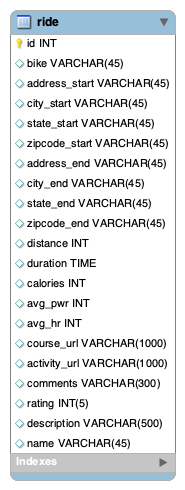
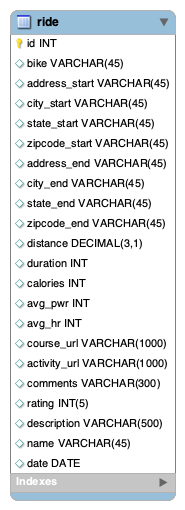
Initial JPA EM tests and initial Get functional in Postman

Changed region(s): [[0.0541, 0.0, 0.9459, 0.9796], [0.8649, 0.9184, 0.9189, 0.9796]]

diff --git a/RideTrackerJPA/src/main/java/com/skilldistillery/ridetracker/entities/Ride.java b/RideTrackerJPA/src/main/java/com/skilldistillery/ridetracker/entities/Ride.java
@@ -7,6 +7,8 @@ import javax.persistence.Entity;
 import javax.persistence.GeneratedValue;
 import javax.persistence.GenerationType;
 import javax.persistence.Id;
+import javax.persistence.Temporal;
+import javax.persistence.TemporalType;
 
 @Entity
 public class Ride {
@@ -34,7 +36,7 @@ public class Ride {
 	@Column(name="zipcode_end")
 	private String zipcodeEnd;
 	private Double distance;
-	private Date duration;
+	private int duration;
 	private int calories;
 	@Column(name = "avg_pwr")
 	private int avgPwr;
@@ -46,15 +48,21 @@ public class Ride {
 	private String activityUrl;
 	private String comments;
 	private int rating;
+	@Temporal(TemporalType.DATE)
+	private Date date;
 	
-	
-	
+	public Date getDate() {
+		return date;
+	}
+	public void setDate(Date date) {
+		this.date = date;
+	}
 	public Ride() {
 		super();
 	}
 	public Ride(int id, String name, String description, String bike, String addressStart, String cityStart,
 			String stateStart, String zipcodeStart, String addressEnd, String cityEnd, String stateEnd,
-			String zipcodeEnd, Double distance, Date duration, int calories, int avgPwr, int avgHr, String courseUrl,
+			String zipcodeEnd, Double distance, int duration, int calories, int avgPwr, int avgHr, String courseUrl,
 			String activityUrl, String comments, int rating) {
 		super();
 		this.id = id;
@@ -157,10 +165,10 @@ public class Ride {
 	public void setDistance(Double distance) {
 		this.distance = distance;
 	}
-	public Date getDuration() {
+	public int getDuration() {
 		return duration;
 	}
-	public void setDuration(Date duration) {
+	public void setDuration(int duration) {
 		this.duration = duration;
 	}
 	public int getCalories() {
@@ -270,6 +278,8 @@ public class Ride {
 		builder.append(comments);
 		builder.append(", rating=");
 		builder.append(rating);
+		builder.append(", date=");
+		builder.append(date);
 		builder.append("]");
 		return builder.toString();
 	}

diff --git a/RideTrackerJPA/src/test/java/com/skilldistillery/ridetracker/tests/RideTests.java b/RideTrackerJPA/src/test/java/com/skilldistillery/ridetracker/tests/RideTests.java
@@ -1,0 +1,60 @@
+package com.skilldistillery.ridetracker.tests;
+
+import static org.junit.jupiter.api.Assertions.assertEquals;
+
+import javax.persistence.EntityManager;
+import javax.persistence.EntityManagerFactory;
+import javax.persistence.Persistence;
+
+import org.junit.jupiter.api.AfterAll;
+import org.junit.jupiter.api.AfterEach;
+import org.junit.jupiter.api.BeforeAll;
+import org.junit.jupiter.api.BeforeEach;
+import org.junit.jupiter.api.Test;
+
+import com.skilldistillery.ridetracker.entities.Ride;
+
+class RideTests {
+
+//	@Test
+//	void test() {
+//		fail("Not yet implemented");
+//	}
+
+	private static EntityManagerFactory emf;
+	private EntityManager em;
+	private Ride ride;
+
+	@BeforeAll
+	public static void setupAll() {
+		emf = Persistence.createEntityManagerFactory("RideTracker");
+	}
+	
+	@AfterAll
+	public static void teardownAll() {
+		emf.close();
+	}
+	
+	@BeforeEach
+	public void setUp() {
+		em = emf.createEntityManager();
+		ride = em.find(Ride.class, 1);
+	}
+
+	@AfterEach
+	public void tearDown() {
+		em.close();
+		ride = null;
+	}
+	
+	@Test
+	public void test_ride_getName() {
+		assertEquals("Gravel Run", ride.getName());
+	}
+	
+	@Test
+	public void test_ride_getDescription() {
+		assertEquals("description", ride.getDescription());
+	}
+	
+}

diff --git a/RideTrackerREST/src/main/java/com/skilldistillery/ridetracker/controllers/RideController.java b/RideTrackerREST/src/main/java/com/skilldistillery/ridetracker/controllers/RideController.java
@@ -1,0 +1,39 @@
+package com.skilldistillery.ridetracker.controllers;
+
+import javax.servlet.http.HttpServletResponse;
+
+import org.springframework.beans.factory.annotation.Autowired;
+import org.springframework.web.bind.annotation.GetMapping;
+import org.springframework.web.bind.annotation.PathVariable;
+import org.springframework.web.bind.annotation.RequestMapping;
+import org.springframework.web.bind.annotation.RestController;
+
+import com.skilldistillery.ridetracker.entities.Ride;
+import com.skilldistillery.ridetracker.services.RideService;
+
+@RestController
+@RequestMapping("api")
+public class RideController {
+
+	@Autowired
+	private RideService svc;
+
+
+//	@GetMapping("rides/")
+//	public List<Ride> getAllRides(@PathVariable("id") Integer id, HttpServletResponse resp) {
+//			List<Ride> rList = new ArrayList<>();
+//			rList = svc.getAllRides(id);
+//			if (rList == null) {
+//				resp.setStatus(404);
+//				return null;
+//			} else {
+//				return rList;
+//			}
+//	}
+	
+	@GetMapping("rides/{id}")
+	public Ride getRideById(@PathVariable("id") Integer id, HttpServletResponse resp) {
+		return svc.fingdById(id);
+	}
+	
+}

diff --git a/RideTrackerREST/src/main/java/com/skilldistillery/ridetracker/services/RideServiceImpl.java b/RideTrackerREST/src/main/java/com/skilldistillery/ridetracker/services/RideServiceImpl.java
@@ -1,0 +1,40 @@
+package com.skilldistillery.ridetracker.services;
+
+import java.util.Optional;
+
+import org.springframework.beans.factory.annotation.Autowired;
+import org.springframework.stereotype.Service;
+
+import com.skilldistillery.ridetracker.entities.Ride;
+import com.skilldistillery.ridetracker.repositories.RideRepository;
+
+@Service
+public class RideServiceImpl implements RideService {
+
+	@Autowired
+	RideRepository repo;
+
+	@Override
+	public Ride fingdById(Integer id) {
+		Optional<Ride> opt = repo.findById(id);
+		if (opt.isPresent()) {
+			return opt.get();
+		}
+		return null;
+	
+	}
+	
+//	@Override
+//	public List<Ride> getAllRides(Integer id) {
+//		List<Ride> rList = new ArrayList<>();
+//		
+//		
+//		rList = repo.findById(id);
+//		if (repo.existsById(id)) {
+//			return rList;
+//		} else {
+//			return null;
+//		}
+//	}
+
+}

diff --git a/RideTrackerREST/src/main/java/com/skilldistillery/ridetracker/repositories/RideRepository.java b/RideTrackerREST/src/main/java/com/skilldistillery/ridetracker/repositories/RideRepository.java
@@ -1,0 +1,11 @@
+package com.skilldistillery.ridetracker.repositories;
+
+
+import org.springframework.data.jpa.repository.JpaRepository;
+
+import com.skilldistillery.ridetracker.entities.Ride;
+
+public interface RideRepository extends JpaRepository<Ride, Integer> {
+
+	
+}

diff --git a/RideTrackerREST/src/main/java/com/skilldistillery/ridetracker/services/RideService.java b/RideTrackerREST/src/main/java/com/skilldistillery/ridetracker/services/RideService.java
@@ -1,0 +1,12 @@
+package com.skilldistillery.ridetracker.services;
+
+import java.util.List;
+
+import com.skilldistillery.ridetracker.entities.Ride;
+
+public interface RideService {
+
+//	public List<Ride> getAllRides(Integer id);
+	public Ride fingdById(Integer id);
+
+}
